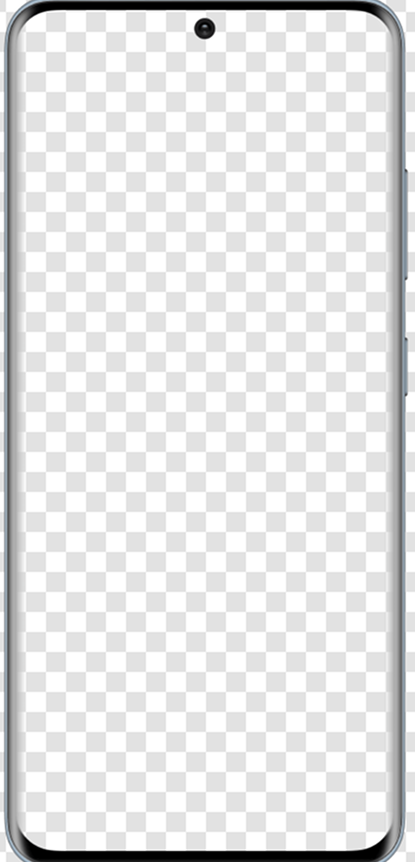
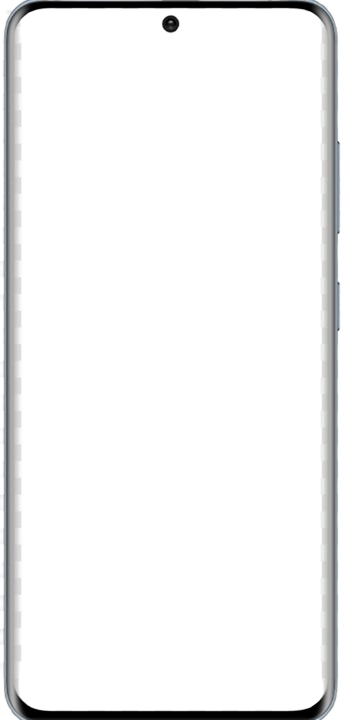
feat: initiate the setup in simulation page

diff --git a/app/page.tsx b/app/page.tsx
@@ -1,24 +1,47 @@
 'use client'
 
-import React from "react";
-import SimulationDetails from "./component/simulation-details";
-import SimulationMap from "./component/simulation-map";
-import { NodeIntarface } from "./type/data-simulation";
+import { useState } from "react";
+import PhoneFrame from "./component/phone-frame";
+import TypingEffectCommand from "./component/typing-effect";
+import { StartingData } from "./data/text-dummy-log";
 
 export default function Page() {
-  const [data, setData] = React.useState<NodeIntarface []>([]);
+  const [activeIndex, setActiveIndex] = useState(0);
 
   return (
     <div className="w-full min-h-screen xl:h-screen p-10">
       <div className="w-full h-full flex items-start justify-between gap-5">
-        <div className="w-full xl:w-[45%] h-full bg-white rounded-md border border-gray-300 p-5">
-          <h1 className="text-center text-xl px-10">Simulation Of How Data is Being Broadcast One to Another</h1>
-          <SimulationDetails data={data} />
+
+        <div className="w-full h-full xl:w-[60%] flex justify-center items-center">
+          <PhoneFrame>
+            <div>Hallo world</div>
+          </PhoneFrame>
         </div>
-        <div className="w-full xl:w-[55%] h-full bg-white rounded-md border border-gray-300">
-          <SimulationMap onNodesUpdate={setData} />
+
+        <div className="w-full xl:w-[40%] bg-white rounded-md">
+          <div className="w-full h-[80vh] bg-black/80 overflow-auto hide-scrollbar rounded-md">
+            <div className="p-10 min-h-screen space-y-2 text-[12px]">
+
+              {StartingData
+                .slice(0, activeIndex + 1)
+                .map((d, idx) => (
+                  <TypingEffectCommand
+                    key={idx}
+                    text={d.content}
+                    speed={d.time}
+                    onDone={() => {
+                      if (idx === activeIndex) {
+                        setActiveIndex(prev => prev + 1);
+                      }
+                    }}
+                  />
+              ))}
+
+            </div>
+          </div>
         </div>
+
       </div>
     </div>
-  )
+  );
 }

diff --git a/app/component/typing-effect.tsx b/app/component/typing-effect.tsx
@@ -1,0 +1,51 @@
+'use client'
+
+import React, { useEffect, useState } from 'react'
+
+interface TypingEffectCommandProps {
+    text: string
+    speed?: number
+    onDone?: () => void
+}
+
+export default function TypingEffectCommand({
+    text,
+    speed = 50,
+    onDone,
+}: TypingEffectCommandProps) {
+    const [displayedText, setDisplayedText] = useState('')
+    const [index, setIndex] = useState(0)
+
+    useEffect(() => {
+        if (index >= text.length) {
+            onDone?.()
+            return
+        }
+
+        const timeout = setTimeout(() => {
+            setDisplayedText((prev) => prev + text[index])
+            setIndex((prev) => prev + 1)
+        }, speed)
+
+        return () => clearTimeout(timeout)
+    }, [index, text, speed, onDone])
+
+    return (
+        <div className="text-green-800 font-mono">
+            <span>{'> '}</span>
+            <code
+                className="text-green-500"
+                style={{
+                    textShadow: `
+                    0 0 1px #22c55e,
+                    0 0 4px #22c55e,
+                    0 0 2px #16a34a
+                    `,
+                }}
+            >
+                {displayedText}
+            </code>
+            {index < text.length && <span className="animate-pulse">_</span>}
+        </div>
+    )
+}

diff --git a/app/data/text-dummy-log.ts b/app/data/text-dummy-log.ts
@@ -1,0 +1,20 @@
+import { TextData } from "../type/data-simulation";
+
+export const StartingData : TextData[] = [
+    {
+        content: "Lightweight Edge AI Kernel (<5MB) loads locally.",
+        time: 30
+    },
+    {
+        content: ".........................",
+        time: 80
+    },
+    {
+        content: "Lightweight Edge AI Successfully Loaded.",
+        time: 10
+    },
+    {
+        content: "Ready to use the system",
+        time: 10
+    },
+]

diff --git a/app/globals.css b/app/globals.css
@@ -1,1 +1,20 @@
 @import "tailwindcss";
+
+
+html {
+  scroll-behavior: smooth;
+}
+
+.hide-scrollbar {
+  /* For Firefox */
+  scrollbar-width: none;
+  /* For Internet Explorer and Edge */
+  -ms-overflow-style: none;
+  /* Optional: ensure scrolling works for the container */
+  overflow: auto; 
+}
+
+/* For Chrome, Safari, and Opera */
+.hide-scrollbar::-webkit-scrollbar {
+  display: none;
+}

diff --git a/app/component/phone-frame.tsx b/app/component/phone-frame.tsx
@@ -1,0 +1,11 @@
+import React from "react";
+
+export default function PhoneFrame(
+    { children }: { children: React.ReactNode }
+) {
+    return (
+        <div className="h-full aspect-346/720 border border-gray-200">
+            {children}
+        </div>
+    );
+}

diff --git a/app/type/data-simulation.ts b/app/type/data-simulation.ts
@@ -27,3 +27,8 @@ export interface SimulationAgentData {
   longitude: number;
   latitude: number;
 }
+
+export interface TextData {
+    time: number;
+    content: string;
+}
